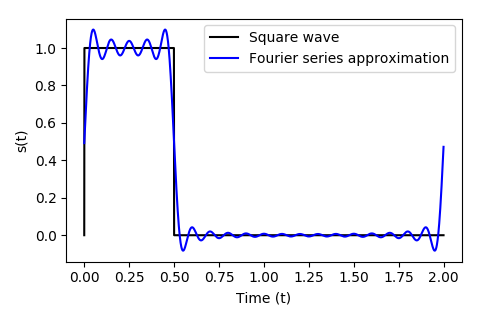
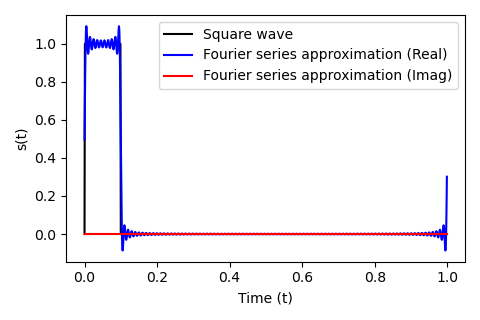
fixed example

diff --git a/009_square_wave/square_wave.py b/009_square_wave/square_wave.py
@@ -4,25 +4,42 @@ import numpy as n
 import matplotlib.pyplot as plt
 
 
-P=0.5
-T=2.0
+P=0.1
+T=1.0
 
 sample_rate=1000.0
 t=n.arange(int(sample_rate*T))/sample_rate
 
-zn = n.zeros(len(t),dtype=n.float64)
+zn = n.zeros(len(t),dtype=n.complex64)
 
-N=21
-zn[:] = P/T
-for k in range(1,N):
-    zn+=(2.0*n.sin(k*P*n.pi/T)/(n.pi*k))*n.cos(2.0*n.pi*k*t/T - k*P*n.pi/T)
+N=101
 
+ks=n.arange(-N,N+1)
+cks=n.zeros(2*N+1,dtype=n.complex64)
+ki=0
+for k in range(-N,N+1):
+    if k == 0:
+        zn += P/T
+        cks[ki]=P/T
+    else:
+        k2=float(k)
+        ck=(1.0/(n.pi*k2))*(n.exp(-1j*(n.pi/T)*k2*P))*n.sin(n.pi*k2*P/T)
+        cks[ki]=ck
+        zn+= ck*n.exp(1j*(2.0*n.pi/T)*k*t)
+    ki+=1
+
+# Plot the absolute values of the Fourier series coefficients
+plt.plot(2.0*n.pi*ks/T,n.abs(cks))
+plt.show()
+
+# create a square wave signal
 square_wave=n.zeros(len(t),dtype=n.float64)
 square_wave[(0<t)&(t<P)]=1.0
 
 plt.figure(figsize=(0.8*6,0.8*4))
 plt.plot(t,square_wave,label="Square wave",color="black")
-plt.plot(t,zn,label="Fourier series approximation",color="blue")
+plt.plot(t,zn.real,label="Fourier series approximation (Real)",color="blue")
+plt.plot(t,zn.imag,label="Fourier series approximation (Imag)",color="red")
 plt.legend()
 plt.xlabel("Time (t)")
 plt.ylabel("s(t)")
